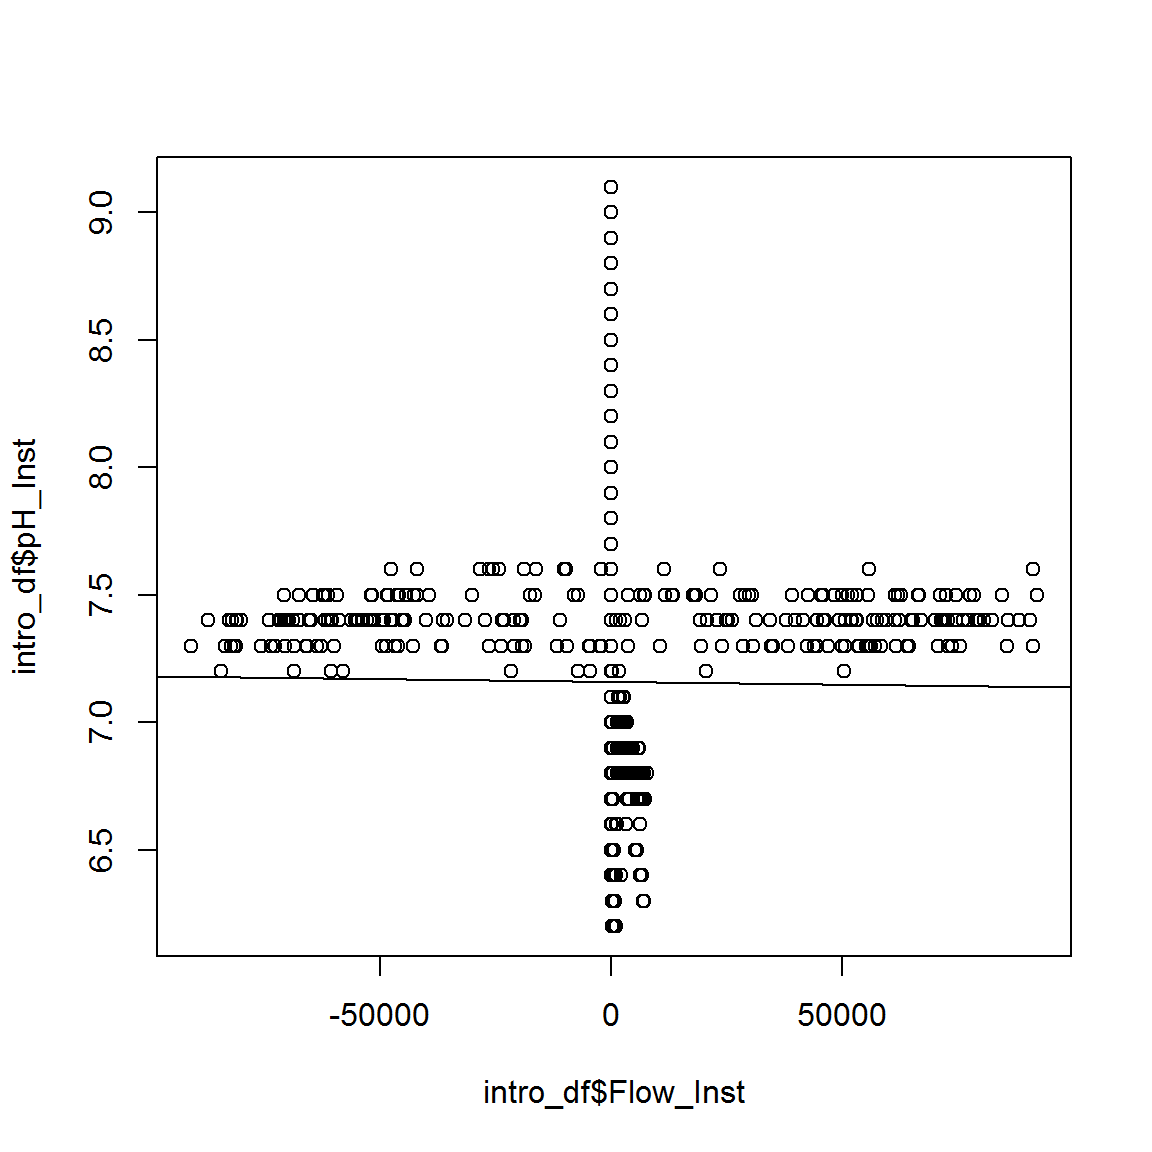
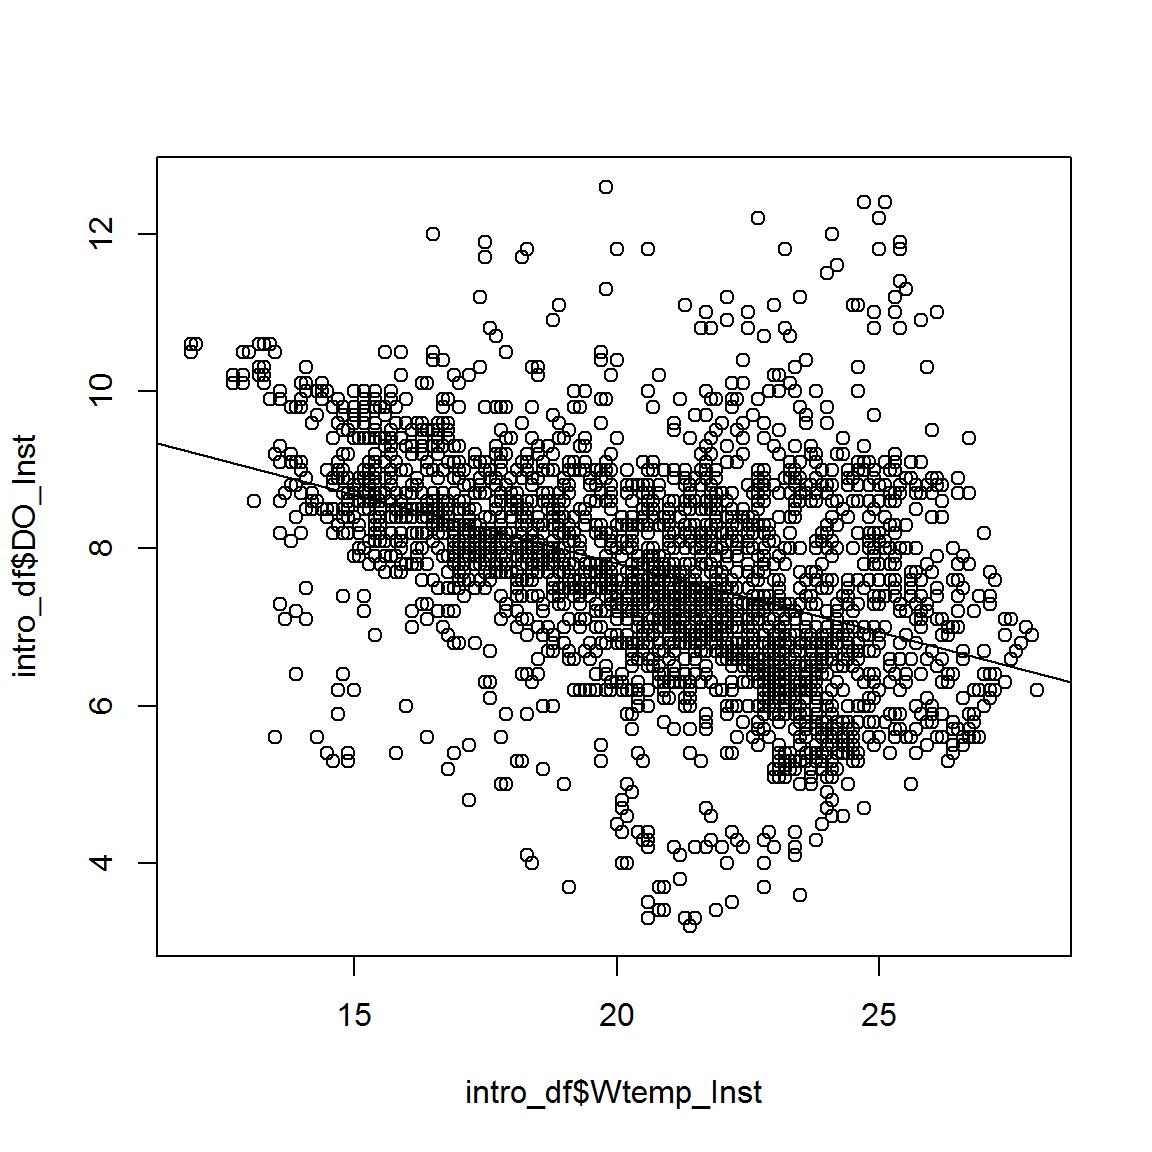
Analyze: lm w/ DO vs Wtemp

diff --git a/content/intro-curriculum/E_Analyze.md b/content/intro-curriculum/E_Analyze.md
@@ -1,6 +1,6 @@
 ---
-author: Jeffrey W. Hollister & Emily Read
-date: 2016-07-06
+author: Jeffrey W. Hollister, Emily Read, Lindsay Carr
+date: 2016-10-05
 slug: Analyze
 title: E. Analyze
 image: img/main/intro-icons-300px/analyze.png
@@ -126,81 +126,80 @@ cor(intro_df_onlynumeric, use="complete.obs")
 Next let's take a look at linear regression. One of the common ways of fitting linear regressions is with `lm()`. We have already seen the formula object so there isn't too much that is new here. Some of the options are new and useful, though. Let's take a look:
 
 ``` r
-lm(pH_Inst ~ Flow_Inst, data=intro_df)
+lm(DO_Inst ~ Wtemp_Inst, data=intro_df)
 ```
 
     ## 
     ## Call:
-    ## lm(formula = pH_Inst ~ Flow_Inst, data = intro_df)
+    ## lm(formula = DO_Inst ~ Wtemp_Inst, data = intro_df)
     ## 
     ## Coefficients:
-    ## (Intercept)    Flow_Inst  
-    ##   7.160e+00   -2.078e-07
+    ## (Intercept)   Wtemp_Inst  
+    ##     11.3049      -0.1747
 
 ``` r
 #Not much info, so save to object and use summary
-lm_gwq1 <- lm(pH_Inst ~ Flow_Inst, data=intro_df)
+lm_gwq1 <- lm(DO_Inst ~ Wtemp_Inst, data=intro_df)
 summary(lm_gwq1)
 ```
 
     ## 
     ## Call:
-    ## lm(formula = pH_Inst ~ Flow_Inst, data = intro_df)
+    ## lm(formula = DO_Inst ~ Wtemp_Inst, data = intro_df)
     ## 
     ## Residuals:
-    ##      Min       1Q   Median       3Q      Max 
-    ## -0.95970 -0.15977  0.04023  0.14023  1.94023 
+    ##     Min      1Q  Median      3Q     Max 
+    ## -4.4055 -0.6783 -0.1055  0.7510  5.4808 
     ## 
     ## Coefficients:
-    ##               Estimate Std. Error  t value Pr(>|t|)    
-    ## (Intercept)  7.160e+00  5.740e-03 1247.274   <2e-16 ***
-    ## Flow_Inst   -2.078e-07  3.457e-07   -0.601    0.548    
+    ##              Estimate Std. Error t value Pr(>|t|)    
+    ## (Intercept) 11.304895   0.148356    76.2   <2e-16 ***
+    ## Wtemp_Inst  -0.174729   0.007075   -24.7   <2e-16 ***
     ## ---
     ## Signif. codes:  0 '***' 0.001 '**' 0.01 '*' 0.05 '.' 0.1 ' ' 1
     ## 
-    ## Residual standard error: 0.3033 on 2791 degrees of freedom
-    ##   (207 observations deleted due to missingness)
-    ## Multiple R-squared:  0.0001294,  Adjusted R-squared:  -0.0002289 
-    ## F-statistic: 0.3612 on 1 and 2791 DF,  p-value: 0.5479
+    ## Residual standard error: 1.241 on 2820 degrees of freedom
+    ##   (178 observations deleted due to missingness)
+    ## Multiple R-squared:  0.1778, Adjusted R-squared:  0.1775 
+    ## F-statistic: 609.9 on 1 and 2820 DF,  p-value: < 2.2e-16
 
 ``` r
 #And now a multiple linear regression
-lm_gwq2 <- lm(pH_Inst ~ Flow_Inst + DO_Inst + Wtemp_Inst, data=intro_df)
+lm_gwq2 <- lm(DO_Inst ~ Wtemp_Inst + Flow_Inst, data=intro_df)
 summary(lm_gwq2)
 ```
 
     ## 
     ## Call:
-    ## lm(formula = pH_Inst ~ Flow_Inst + DO_Inst + Wtemp_Inst, data = intro_df)
+    ## lm(formula = DO_Inst ~ Wtemp_Inst + Flow_Inst, data = intro_df)
     ## 
     ## Residuals:
-    ##      Min       1Q   Median       3Q      Max 
-    ## -0.90116 -0.15046 -0.01061  0.14245  1.60553 
+    ##     Min      1Q  Median      3Q     Max 
+    ## -4.4067 -0.6817 -0.1067  0.7537  5.4795 
     ## 
     ## Coefficients:
     ##               Estimate Std. Error t value Pr(>|t|)    
-    ## (Intercept)  5.738e+00  5.993e-02  95.734   <2e-16 ***
-    ## Flow_Inst   -2.761e-07  3.206e-07  -0.861    0.389    
-    ## DO_Inst      8.384e-02  4.338e-03  19.330   <2e-16 ***
-    ## Wtemp_Inst   3.767e-02  1.802e-03  20.899   <2e-16 ***
+    ## (Intercept)  1.131e+01  1.512e-01  74.787   <2e-16 ***
+    ## Wtemp_Inst  -1.747e-01  7.216e-03 -24.211   <2e-16 ***
+    ## Flow_Inst    2.033e-06  1.415e-06   1.436    0.151    
     ## ---
     ## Signif. codes:  0 '***' 0.001 '**' 0.01 '*' 0.05 '.' 0.1 ' ' 1
     ## 
-    ## Residual standard error: 0.2753 on 2627 degrees of freedom
-    ##   (369 observations deleted due to missingness)
-    ## Multiple R-squared:  0.1783, Adjusted R-squared:  0.1773 
-    ## F-statistic:   190 on 3 and 2627 DF,  p-value: < 2.2e-16
+    ## Residual standard error: 1.245 on 2733 degrees of freedom
+    ##   (264 observations deleted due to missingness)
+    ## Multiple R-squared:  0.1773, Adjusted R-squared:  0.1767 
+    ## F-statistic: 294.6 on 2 and 2733 DF,  p-value: < 2.2e-16
 
 We can also put a regression line on the plot:
 
 ``` r
-plot(intro_df$Flow_Inst, intro_df$pH_Inst)
+plot(intro_df$Wtemp_Inst, intro_df$DO_Inst)
 #abline accepts a linear model object as input
 #linear model is done with lm, and uses a formula as input
-abline(lm(pH_Inst ~ Flow_Inst, data=intro_df))
+abline(lm(DO_Inst ~ Wtemp_Inst, data=intro_df))
 ```
 
-<img src='../static/Analyze/abline_examp_lm-1.png'/ title='/Scatter plot of pH versus flow with regression line'/>
+<img src='../static/Analyze/abline_examp_lm-1.png'/ title='Scatter plot of pH versus flow with regression line'/>
 
 We can also just add a straight line defined by slope and intercept. We do this with `abline()`. This is useful if you have a known value that you want to compare to your data.
 
@@ -214,7 +213,7 @@ abline(v=15)
 abline(7, 0.5)
 ```
 
-<img src='../static/Analyze/abline_examp-1.png'/ title='/Dissolved oxygen versus water temperature scatter plot with lines using abline'/>
+<img src='../static/Analyze/abline_examp-1.png'/ title='Dissolved oxygen versus water temperature scatter plot with lines using abline'/>
 
 All of your standard modeling approaches (and then some) are available in R, including typical variable selection techniques (e.g. stepwise with AIC) and logistic regression, which is implemented with the rest of the generalized linear models in `glm()`. Interaction terms can be specified directly in the model, but we won't be covering them in this course.. Lastly, if you are interested in more involved or newer approaches these are likely implemented in additional packages, beyond base R and `stats`, which you can find on a repository such as [CRAN](https://cran.rstudio.com), [GRAN](http://owi.usgs.gov/R/gran.html), or [Bioconductor](https://www.bioconductor.org/packages/release/BiocViews.html#___Software). You can also check out task pages such as the [CRAN Environmetrics Task View](https://cran.r-project.org/web/views/Environmetrics.html) for more ideas.
 
